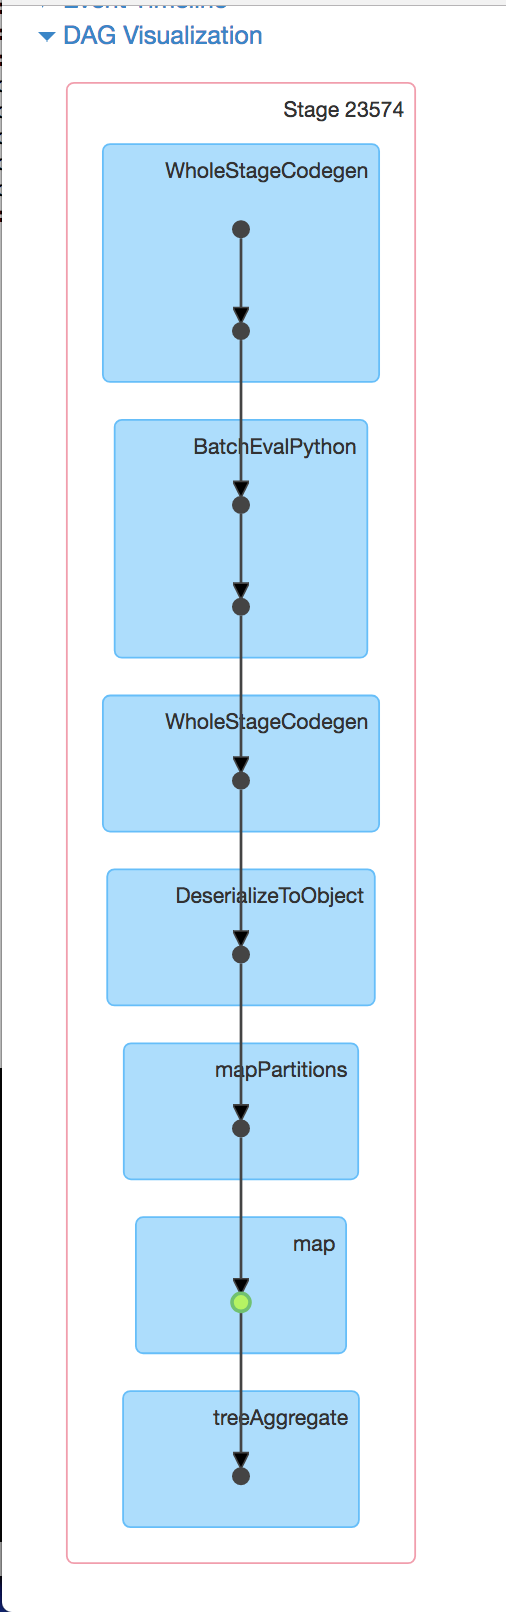
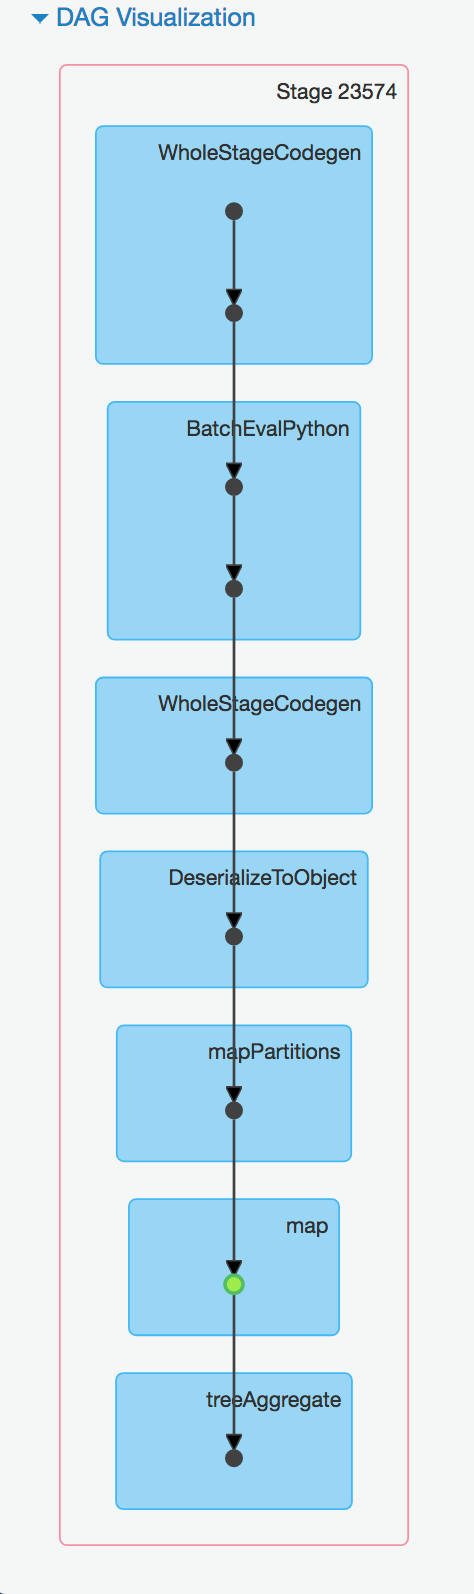
mv images, crop one

diff --git a/docs/how-to-showcase-your-apache-spark-skills.html b/docs/how-to-showcase-your-apache-spark-skills.html
@@ -28,7 +28,12 @@
         <a href="https://pluteski.github.io/speech-to-text/how-to-showcase-your-apache-spark-skills.html" id="page-title">How to showcase your Apache Spark skills</a></h1>
 <time datetime="2018-07-29T00:00:00-07:00">Sun 29 July 2018</time></header>
 <article>
-    <p>Figure 0. Spark UI</p>
+    <p align="center">
+<img src="https://github.com/pluteski/speech-to-text/blob/master/blog/content/images/spark/L4.UI.DAG.png" alt="Spark UI DAG" width="300px"/>
+<br>
+<b>Figure 0</b>
+</p>
+
 <h1>How to spotlight Apache Spark skills</h1>
 <p>How do you prove your capability as a Apache Spark data scientist when you don’t have much to show? Perhaps this is because you don’t have much experience.  Perhaps it is because the work you do does not lend itself to being shown to others.  You may have done impressive work, but have nothing to show for it because most developers work for companies that don’t publish their code as open source. </p>
 <p>I am going to give you some tips for bringing your skills out of the dark 
@@ -48,13 +53,23 @@ is a great way to elaborate further in breadth as well as depth.</p>
 <a href="https://github.com/pluteski/first2017mp/raw/master/images/stage3_paths_ne.png">Figure 1</a> 
 and <a href="https://github.com/pluteski/first2017mp/raw/master/images/stage2_fleur_de_lis.png">Figure 2</a> 
 are two of the most visually appealing visualizations that give the reader an idea at a glance of what is being done and how, and draw the reader in to learn more.</p>
-<p>![Figure 1](https://github.com/pluteski/first2017mp/raw/master/images/stage3_paths_ne.png =100x) </p>
-<p>![Figure 2](https://github.com/pluteski/first2017mp/raw/master/images/stage2_fleur_de_lis.png =100x100 ) </p>
-<h2>How to show what you know</h2>
+<p align="center">
+<img src="https://github.com/pluteski/first2017mp/raw/master/images/stage2_fleur_de_lis.png" alt="Fleur-de-lis search pattern (copyright Mark E Plutowski)" width="300px"/>
+<br>
+<b>Figure 1</b>
+</p>
+
+<p align="center">
+<img src="https://github.com/pluteski/first2017mp/raw/master/images/stage3_paths_ne.png" alt="Sample trajectories (copyright Mark E Plutowski)" width="400px"/>
+<br>
+<b>Figure 2</b>
+</p>
+
+<h2>Show what you know</h2>
 <p>In this article I will show you how you can showcase your skills. By doing so, you will also learn new relevant skills along the way.  I’ll show you how publishing your work using self-explanatory visualizations can separate your from the pack.  I’ll also show how to select a coding project that demonstrates useful skills that are immediately applicable in a production setting.  Furthermore, by setting this up for yourself, you will also acquire new skills that are valuable for the coding challenge portion of the interview, as well as being directly transferable to the job itself.</p>
 <h2>Know what you show</h2>
 <p>To utilize this approach effectively, you must be intimately familiar with every line of content in your repo. The best way to achieve this is to create an original work of your own design, developed step by step from start to finish by yourself. Once you get started this may not take as long as you expect. On the other hand, there may be steps that blossom into much more time-intensive investment than you expected.  That's actually ok -- it gives you something interesting to explain when discussing your process. </p>
-<h2>Use your edge, gain a new one</h2>
+<h2>Hone your edge, gain a new one</h2>
 <p>Someone who has well organized and nontrivial open source code will be prioritised over other similarly experienced candidates, but because their competencies are easier to evaluate.  By providing visibility you simplify the job of the recruiters and interviewers, while simultaneously preparing yourself for the interview, as well as learning relevant skills that will be useful on the job.</p>
 <p>Source: https://github.com/pluteski/first2017mp/raw/master/images/stage2_fleur_de_lis.png </p>
 <p>Figure 1. Fleur-de-lis search pattern used by an algorithm that I developed. Not only does it illustrate a key step, it is also an interesting visualization. </p>

diff --git a/docs/author/mark-plutowski.html b/docs/author/mark-plutowski.html
@@ -30,7 +30,12 @@
 <time datetime="2018-07-29T00:00:00-07:00">Sun 29 July 2018</time>	</header>
 
 	<article>
-		<p>Figure 0. Spark UI</p>
+		<p align="center">
+<img src="https://github.com/pluteski/speech-to-text/blob/master/blog/content/images/spark/L4.UI.DAG.png" alt="Spark UI DAG" width="300px"/>
+<br>
+<b>Figure 0</b>
+</p>
+
 <h1>How to spotlight Apache Spark skills</h1>
 <p>How do you prove your capability as a Apache Spark data scientist when you don’t have much to show? Perhaps this is because you don’t have much experience.  Perhaps it is because the work you do does not lend itself to being shown to others.  You may have done impressive work, but have nothing to show for it because most developers work for companies that don’t publish their code as open source. </p>
 <p>I am going to give you some tips for bringing your skills out of the dark 
@@ -50,13 +55,23 @@ is a great way to elaborate further in breadth as well as depth.</p>
 <a href="https://github.com/pluteski/first2017mp/raw/master/images/stage3_paths_ne.png">Figure 1</a> 
 and <a href="https://github.com/pluteski/first2017mp/raw/master/images/stage2_fleur_de_lis.png">Figure 2</a> 
 are two of the most visually appealing visualizations that give the reader an idea at a glance of what is being done and how, and draw the reader in to learn more.</p>
-<p>![Figure 1](https://github.com/pluteski/first2017mp/raw/master/images/stage3_paths_ne.png =100x) </p>
-<p>![Figure 2](https://github.com/pluteski/first2017mp/raw/master/images/stage2_fleur_de_lis.png =100x100 ) </p>
-<h2>How to show what you know</h2>
+<p align="center">
+<img src="https://github.com/pluteski/first2017mp/raw/master/images/stage2_fleur_de_lis.png" alt="Fleur-de-lis search pattern (copyright Mark E Plutowski)" width="300px"/>
+<br>
+<b>Figure 1</b>
+</p>
+
+<p align="center">
+<img src="https://github.com/pluteski/first2017mp/raw/master/images/stage3_paths_ne.png" alt="Sample trajectories (copyright Mark E Plutowski)" width="400px"/>
+<br>
+<b>Figure 2</b>
+</p>
+
+<h2>Show what you know</h2>
 <p>In this article I will show you how you can showcase your skills. By doing so, you will also learn new relevant skills along the way.  I’ll show you how publishing your work using self-explanatory visualizations can separate your from the pack.  I’ll also show how to select a coding project that demonstrates useful skills that are immediately applicable in a production setting.  Furthermore, by setting this up for yourself, you will also acquire new skills that are valuable for the coding challenge portion of the interview, as well as being directly transferable to the job itself.</p>
 <h2>Know what you show</h2>
 <p>To utilize this approach effectively, you must be intimately familiar with every line of content in your repo. The best way to achieve this is to create an original work of your own design, developed step by step from start to finish by yourself. Once you get started this may not take as long as you expect. On the other hand, there may be steps that blossom into much more time-intensive investment than you expected.  That's actually ok -- it gives you something interesting to explain when discussing your process. </p>
-<h2>Use your edge, gain a new one</h2>
+<h2>Hone your edge, gain a new one</h2>
 <p>Someone who has well organized and nontrivial open source code will be prioritised over other similarly experienced candidates, but because their competencies are easier to evaluate.  By providing visibility you simplify the job of the recruiters and interviewers, while simultaneously preparing yourself for the interview, as well as learning relevant skills that will be useful on the job.</p>
 <p>Source: https://github.com/pluteski/first2017mp/raw/master/images/stage2_fleur_de_lis.png </p>
 <p>Figure 1. Fleur-de-lis search pattern used by an algorithm that I developed. Not only does it illustrate a key step, it is also an interesting visualization. </p>

diff --git a/docs/category/misc.html b/docs/category/misc.html
@@ -30,7 +30,12 @@
 <time datetime="2018-07-29T00:00:00-07:00">Sun 29 July 2018</time>	</header>
 
 	<article>
-		<p>Figure 0. Spark UI</p>
+		<p align="center">
+<img src="https://github.com/pluteski/speech-to-text/blob/master/blog/content/images/spark/L4.UI.DAG.png" alt="Spark UI DAG" width="300px"/>
+<br>
+<b>Figure 0</b>
+</p>
+
 <h1>How to spotlight Apache Spark skills</h1>
 <p>How do you prove your capability as a Apache Spark data scientist when you don’t have much to show? Perhaps this is because you don’t have much experience.  Perhaps it is because the work you do does not lend itself to being shown to others.  You may have done impressive work, but have nothing to show for it because most developers work for companies that don’t publish their code as open source. </p>
 <p>I am going to give you some tips for bringing your skills out of the dark 
@@ -50,13 +55,23 @@ is a great way to elaborate further in breadth as well as depth.</p>
 <a href="https://github.com/pluteski/first2017mp/raw/master/images/stage3_paths_ne.png">Figure 1</a> 
 and <a href="https://github.com/pluteski/first2017mp/raw/master/images/stage2_fleur_de_lis.png">Figure 2</a> 
 are two of the most visually appealing visualizations that give the reader an idea at a glance of what is being done and how, and draw the reader in to learn more.</p>
-<p>![Figure 1](https://github.com/pluteski/first2017mp/raw/master/images/stage3_paths_ne.png =100x) </p>
-<p>![Figure 2](https://github.com/pluteski/first2017mp/raw/master/images/stage2_fleur_de_lis.png =100x100 ) </p>
-<h2>How to show what you know</h2>
+<p align="center">
+<img src="https://github.com/pluteski/first2017mp/raw/master/images/stage2_fleur_de_lis.png" alt="Fleur-de-lis search pattern (copyright Mark E Plutowski)" width="300px"/>
+<br>
+<b>Figure 1</b>
+</p>
+
+<p align="center">
+<img src="https://github.com/pluteski/first2017mp/raw/master/images/stage3_paths_ne.png" alt="Sample trajectories (copyright Mark E Plutowski)" width="400px"/>
+<br>
+<b>Figure 2</b>
+</p>
+
+<h2>Show what you know</h2>
 <p>In this article I will show you how you can showcase your skills. By doing so, you will also learn new relevant skills along the way.  I’ll show you how publishing your work using self-explanatory visualizations can separate your from the pack.  I’ll also show how to select a coding project that demonstrates useful skills that are immediately applicable in a production setting.  Furthermore, by setting this up for yourself, you will also acquire new skills that are valuable for the coding challenge portion of the interview, as well as being directly transferable to the job itself.</p>
 <h2>Know what you show</h2>
 <p>To utilize this approach effectively, you must be intimately familiar with every line of content in your repo. The best way to achieve this is to create an original work of your own design, developed step by step from start to finish by yourself. Once you get started this may not take as long as you expect. On the other hand, there may be steps that blossom into much more time-intensive investment than you expected.  That's actually ok -- it gives you something interesting to explain when discussing your process. </p>
-<h2>Use your edge, gain a new one</h2>
+<h2>Hone your edge, gain a new one</h2>
 <p>Someone who has well organized and nontrivial open source code will be prioritised over other similarly experienced candidates, but because their competencies are easier to evaluate.  By providing visibility you simplify the job of the recruiters and interviewers, while simultaneously preparing yourself for the interview, as well as learning relevant skills that will be useful on the job.</p>
 <p>Source: https://github.com/pluteski/first2017mp/raw/master/images/stage2_fleur_de_lis.png </p>
 <p>Figure 1. Fleur-de-lis search pattern used by an algorithm that I developed. Not only does it illustrate a key step, it is also an interesting visualization. </p>

diff --git a/docs/index.html b/docs/index.html
@@ -30,7 +30,12 @@
 <time datetime="2018-07-29T00:00:00-07:00">Sun 29 July 2018</time>	</header>
 
 	<article>
-		<p>Figure 0. Spark UI</p>
+		<p align="center">
+<img src="https://github.com/pluteski/speech-to-text/blob/master/blog/content/images/spark/L4.UI.DAG.png" alt="Spark UI DAG" width="300px"/>
+<br>
+<b>Figure 0</b>
+</p>
+
 <h1>How to spotlight Apache Spark skills</h1>
 <p>How do you prove your capability as a Apache Spark data scientist when you don’t have much to show? Perhaps this is because you don’t have much experience.  Perhaps it is because the work you do does not lend itself to being shown to others.  You may have done impressive work, but have nothing to show for it because most developers work for companies that don’t publish their code as open source. </p>
 <p>I am going to give you some tips for bringing your skills out of the dark 
@@ -50,13 +55,23 @@ is a great way to elaborate further in breadth as well as depth.</p>
 <a href="https://github.com/pluteski/first2017mp/raw/master/images/stage3_paths_ne.png">Figure 1</a> 
 and <a href="https://github.com/pluteski/first2017mp/raw/master/images/stage2_fleur_de_lis.png">Figure 2</a> 
 are two of the most visually appealing visualizations that give the reader an idea at a glance of what is being done and how, and draw the reader in to learn more.</p>
-<p>![Figure 1](https://github.com/pluteski/first2017mp/raw/master/images/stage3_paths_ne.png =100x) </p>
-<p>![Figure 2](https://github.com/pluteski/first2017mp/raw/master/images/stage2_fleur_de_lis.png =100x100 ) </p>
-<h2>How to show what you know</h2>
+<p align="center">
+<img src="https://github.com/pluteski/first2017mp/raw/master/images/stage2_fleur_de_lis.png" alt="Fleur-de-lis search pattern (copyright Mark E Plutowski)" width="300px"/>
+<br>
+<b>Figure 1</b>
+</p>
+
+<p align="center">
+<img src="https://github.com/pluteski/first2017mp/raw/master/images/stage3_paths_ne.png" alt="Sample trajectories (copyright Mark E Plutowski)" width="400px"/>
+<br>
+<b>Figure 2</b>
+</p>
+
+<h2>Show what you know</h2>
 <p>In this article I will show you how you can showcase your skills. By doing so, you will also learn new relevant skills along the way.  I’ll show you how publishing your work using self-explanatory visualizations can separate your from the pack.  I’ll also show how to select a coding project that demonstrates useful skills that are immediately applicable in a production setting.  Furthermore, by setting this up for yourself, you will also acquire new skills that are valuable for the coding challenge portion of the interview, as well as being directly transferable to the job itself.</p>
 <h2>Know what you show</h2>
 <p>To utilize this approach effectively, you must be intimately familiar with every line of content in your repo. The best way to achieve this is to create an original work of your own design, developed step by step from start to finish by yourself. Once you get started this may not take as long as you expect. On the other hand, there may be steps that blossom into much more time-intensive investment than you expected.  That's actually ok -- it gives you something interesting to explain when discussing your process. </p>
-<h2>Use your edge, gain a new one</h2>
+<h2>Hone your edge, gain a new one</h2>
 <p>Someone who has well organized and nontrivial open source code will be prioritised over other similarly experienced candidates, but because their competencies are easier to evaluate.  By providing visibility you simplify the job of the recruiters and interviewers, while simultaneously preparing yourself for the interview, as well as learning relevant skills that will be useful on the job.</p>
 <p>Source: https://github.com/pluteski/first2017mp/raw/master/images/stage2_fleur_de_lis.png </p>
 <p>Figure 1. Fleur-de-lis search pattern used by an algorithm that I developed. Not only does it illustrate a key step, it is also an interesting visualization. </p>

diff --git a/blog/content/thinkific_blog1.md b/blog/content/thinkific_blog1.md
@@ -8,16 +8,57 @@ Date:        2018-07-29
 
 
 
-Figure 0. Spark UI
+<p align="center">
+<img src="https://github.com/pluteski/speech-to-text/blob/master/blog/content/images/spark/L4.UI.DAG.png" alt="Spark UI DAG" width="300px"/>
+<br>
+<b>Figure 0</b>
+</p>
 
-# How to showcase your Apache Spark skills
+# How to spotlight Apache Spark skills 
 How do you prove your capability as a Apache Spark data scientist when you don’t have much to show? Perhaps this is because you don’t have much experience.  Perhaps it is because the work you do does not lend itself to being shown to others.  You may have done impressive work, but have nothing to show for it because most developers work for companies that don’t publish their code as open source. 
 
+I am going to give you some tips for bringing your skills out of the dark 
+and into the light. 
 
-## How to show what you know
+## Publish your work
+Publishing a code project is a great way to introduce yourself to an interviewer. This also provides them with ample talking points for various styles of interview questions.  Doing this makes the interviewers job easier. 
+By doing so you are giving them context on what you already know, and providing talking points for interview questions. 
+Interviewers in the software industry are often stretched thin; making their job easier puts them into a better mood while also demonstrating your preparedness. 
+
+This can be helpful for many types of interview questions, including behavioral questions, situational questions, coding challenges, and system design challenges. 
+
+As an example, take [this python repo](https://github.com/pluteski/first2017mp) I published on github.
+I developed this during my role as a mentor for a robotics team.  
+The repo uses [the readme](https://github.com/pluteski/first2017mp/blob/master/README.md) to explain the project at a high level manner while also 
+giving a developer a quick start guide. 
+Often overlooked, [the repo wiki](https://github.com/pluteski/first2017mp/wiki)
+is a great way to elaborate further in breadth as well as depth.
+
+The wiki is a great place to provide visuals that allow readers to quickly get a sense of what your project does. 
+[Figure 1](https://github.com/pluteski/first2017mp/raw/master/images/stage3_paths_ne.png) 
+and [Figure 2](https://github.com/pluteski/first2017mp/raw/master/images/stage2_fleur_de_lis.png) 
+are two of the most visually appealing visualizations that give the reader an idea at a glance of what is being done and how, and draw the reader in to learn more.
+
+<p align="center">
+<img src="https://github.com/pluteski/first2017mp/raw/master/images/stage2_fleur_de_lis.png" alt="Fleur-de-lis search pattern (copyright Mark E Plutowski)" width="300px"/>
+<br>
+<b>Figure 1</b>
+</p>
+
+<p align="center">
+<img src="https://github.com/pluteski/first2017mp/raw/master/images/stage3_paths_ne.png" alt="Sample trajectories (copyright Mark E Plutowski)" width="400px"/>
+<br>
+<b>Figure 2</b>
+</p>
+
+
+## Show what you know
 In this article I will show you how you can showcase your skills. By doing so, you will also learn new relevant skills along the way.  I’ll show you how publishing your work using self-explanatory visualizations can separate your from the pack.  I’ll also show how to select a coding project that demonstrates useful skills that are immediately applicable in a production setting.  Furthermore, by setting this up for yourself, you will also acquire new skills that are valuable for the coding challenge portion of the interview, as well as being directly transferable to the job itself.
 
-## Use your edge, gain a new one
+## Know what you show
+To utilize this approach effectively, you must be intimately familiar with every line of content in your repo. The best way to achieve this is to create an original work of your own design, developed step by step from start to finish by yourself. Once you get started this may not take as long as you expect. On the other hand, there may be steps that blossom into much more time-intensive investment than you expected.  That's actually ok -- it gives you something interesting to explain when discussing your process. 
+
+## Hone your edge, gain a new one
 Someone who has well organized and nontrivial open source code will be prioritised over other similarly experienced candidates, but because their competencies are easier to evaluate.  By providing visibility you simplify the job of the recruiters and interviewers, while simultaneously preparing yourself for the interview, as well as learning relevant skills that will be useful on the job.
 
 
@@ -25,14 +66,6 @@ Someone who has well organized and nontrivial open source code will be prioritis
 Source: https://github.com/pluteski/first2017mp/raw/master/images/stage2_fleur_de_lis.png 
 
 Figure 1. Fleur-de-lis search pattern used by an algorithm that I developed. Not only does it illustrate a key step, it is also an interesting visualization. 
-
-
-## Publish your work
-Publishing a code project is a great way to introduce yourself to an interviewer and provide them with ample talking points for various styles of interview questions.  Doing this makes the interviewers job easier by giving them context on what you already know, and providing talking points for interview questions.  This can be helpful for many types of interview questions, including behavioral questions, situational questions, coding questions, and system design questions. 
-
-As an example, take this a python repo I published on github during my stint as a mentor for a robotics team.  I use the readme to explain the project in a high level manner that also allows a developer to quickly test the code. I use the repo wiki to elaborate further.  
-
-The wiki is a great place to provide visuals that allow readers to quickly get a sense of what your project does. Figure 1 and Figure 2 are two of the most visually appealing visualizations that give the reader an idea at a glance of what is being done and how, and draw the reader in to learn more.
 
 
 Source : https://github.com/pluteski/first2017mp/raw/master/images/stage3_paths_ne.png 
@@ -66,8 +99,7 @@ Providing these assets gives the interviewer opportunity to derive behavioral qu
 
 It also provides code screeners example code that can be used as a starting point for more in depth exploration of your skills. Instead of selecting a random problem, they may choose a coding challenge that is within your wheelhouse. 
 
-## Know what you show
-To utilize this approach effectively, you must be intimately familiar with every line of content in your repo. The best way to achieve this is to create an original work of your own design, developed step by step from start to finish by yourself. Once you get started this may not take as long as you expect. On the other hand, there may be steps that blossom into much more time-intensive investment than you expected.  That's actually ok -- it gives you something interesting to explain when discussing your process. 
+## Showcasing your repo
 
 Getting off and running is greatly simplified by reviewing other code repos. Review code repositories relevant to your own goals and learn how to distinguish effective ones from half-baked ones. Pick one or two to serve as a role model for your own design, and then make it your own.
 
@@ -155,6 +187,6 @@ type "Preview",
 select "Markdown Preview: Python Markdown: Preview in Browser", and 
 hit enter 
 
-Shift-CMD-O
+option-CMD-O
 
 -->
